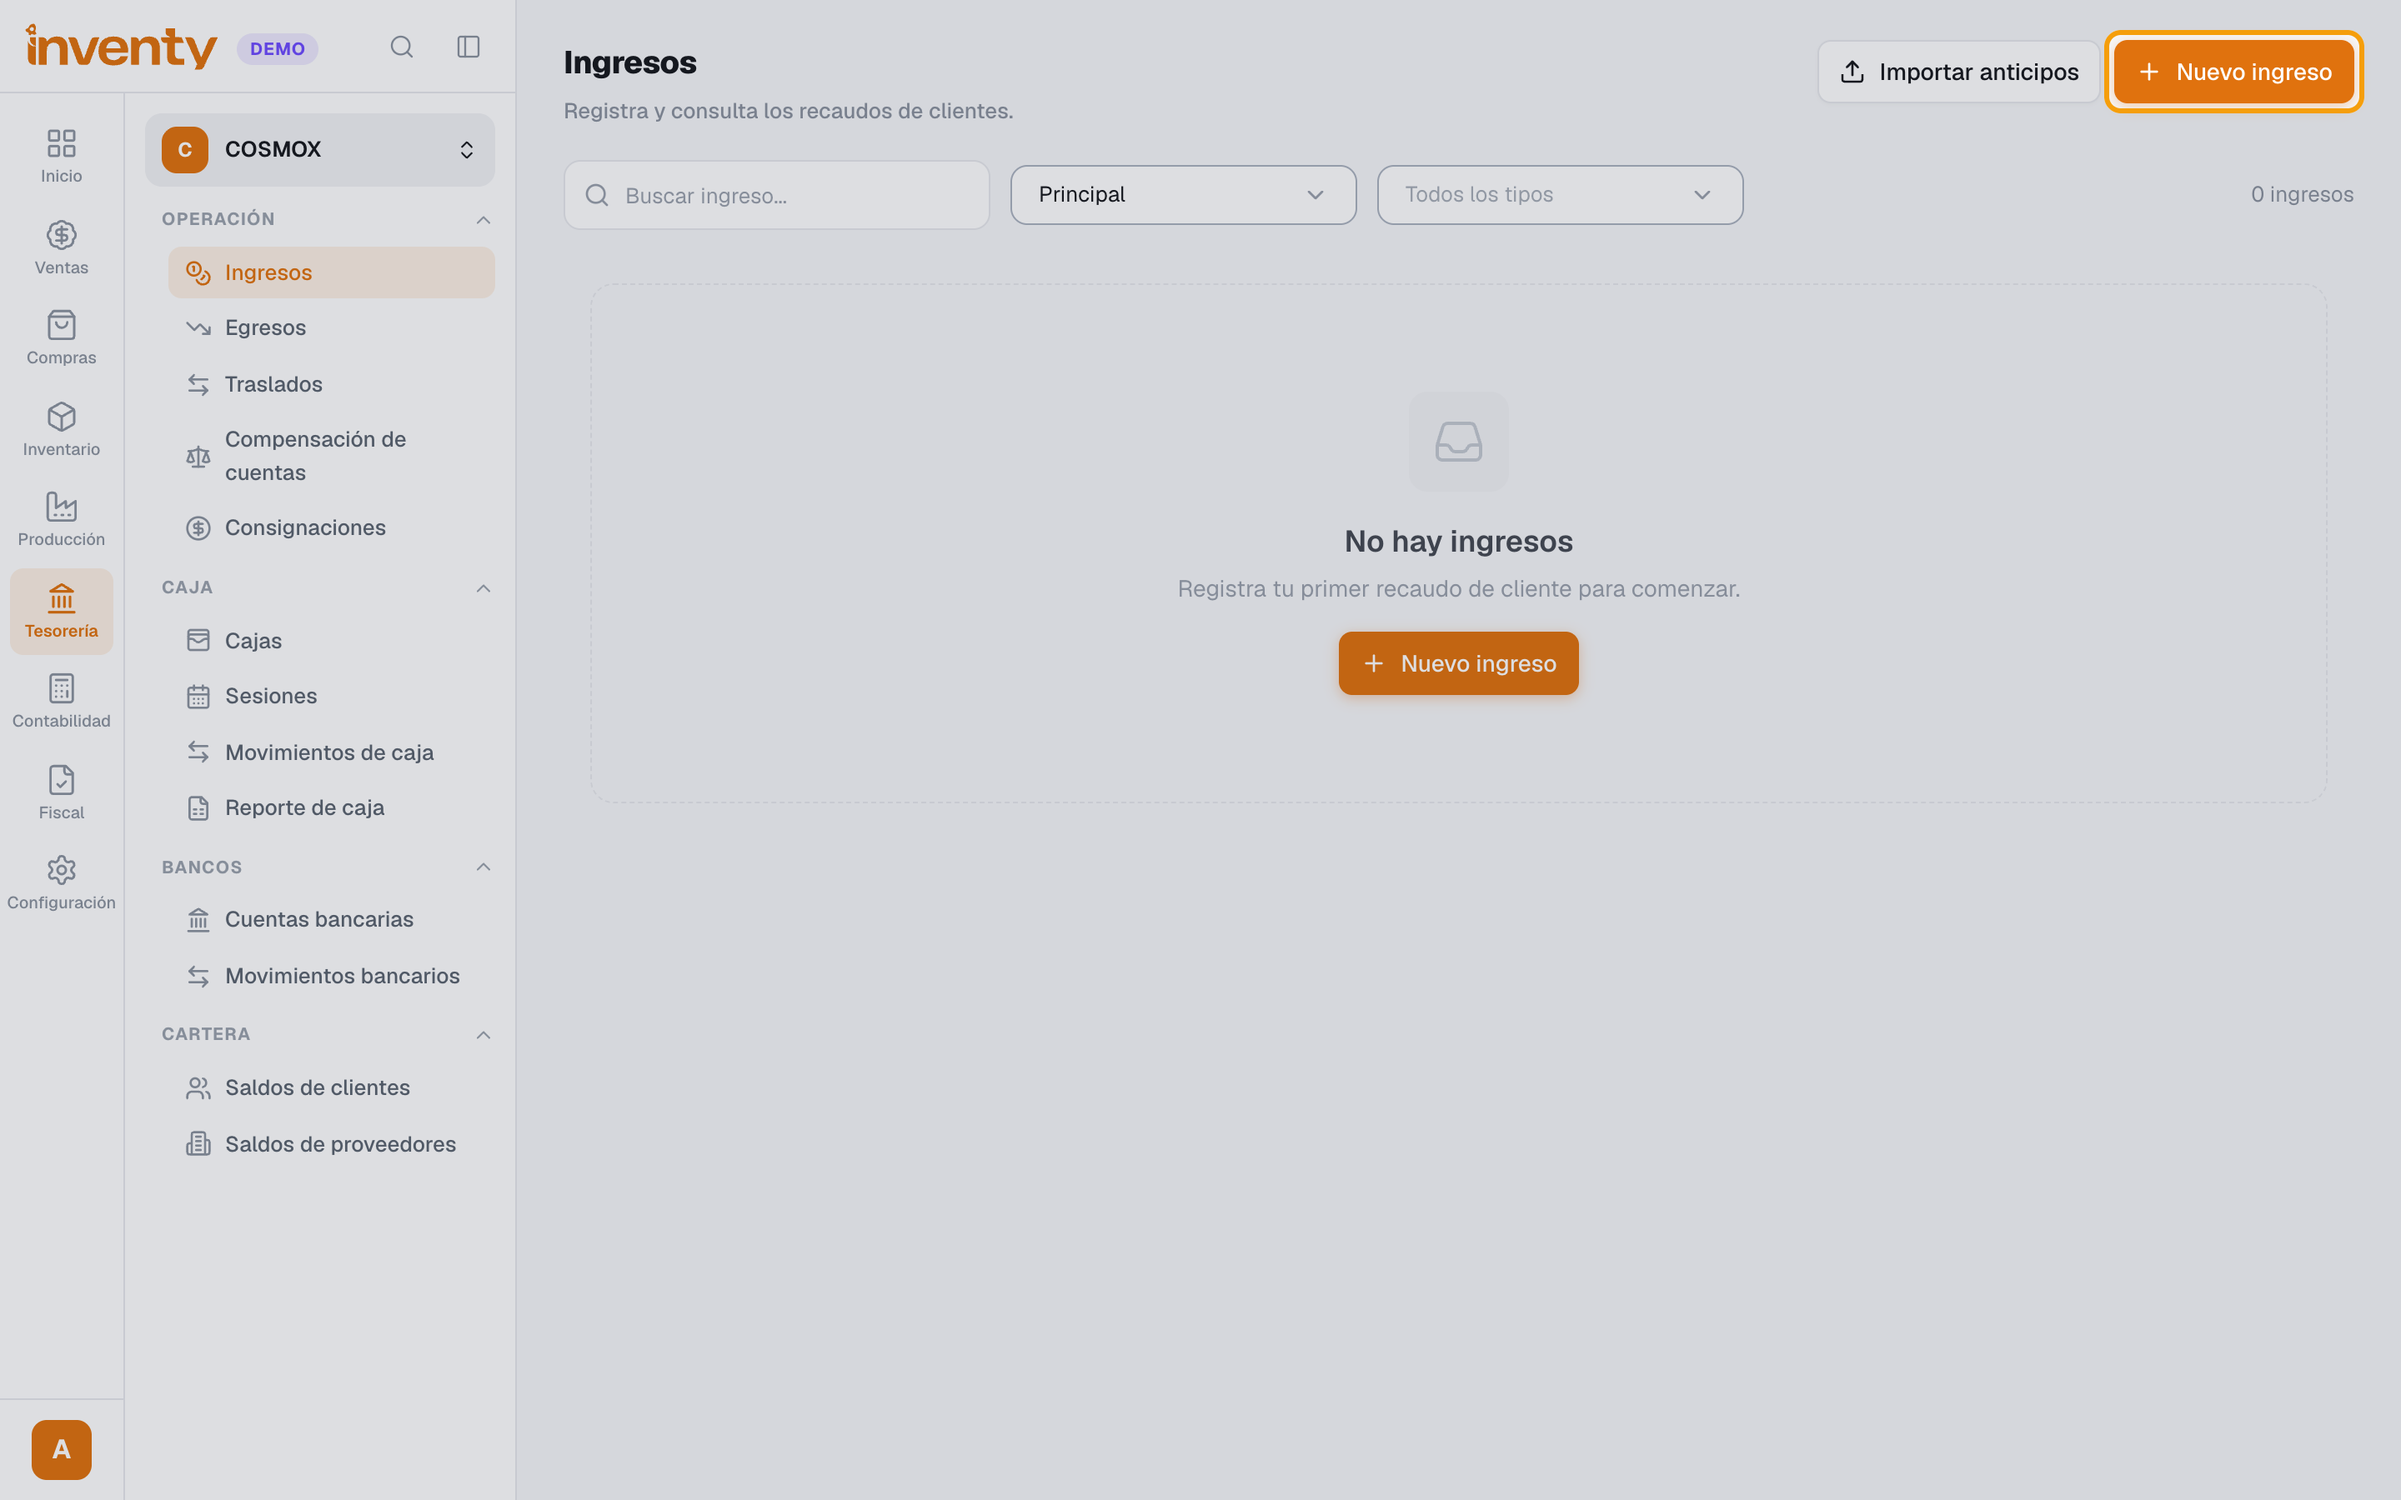
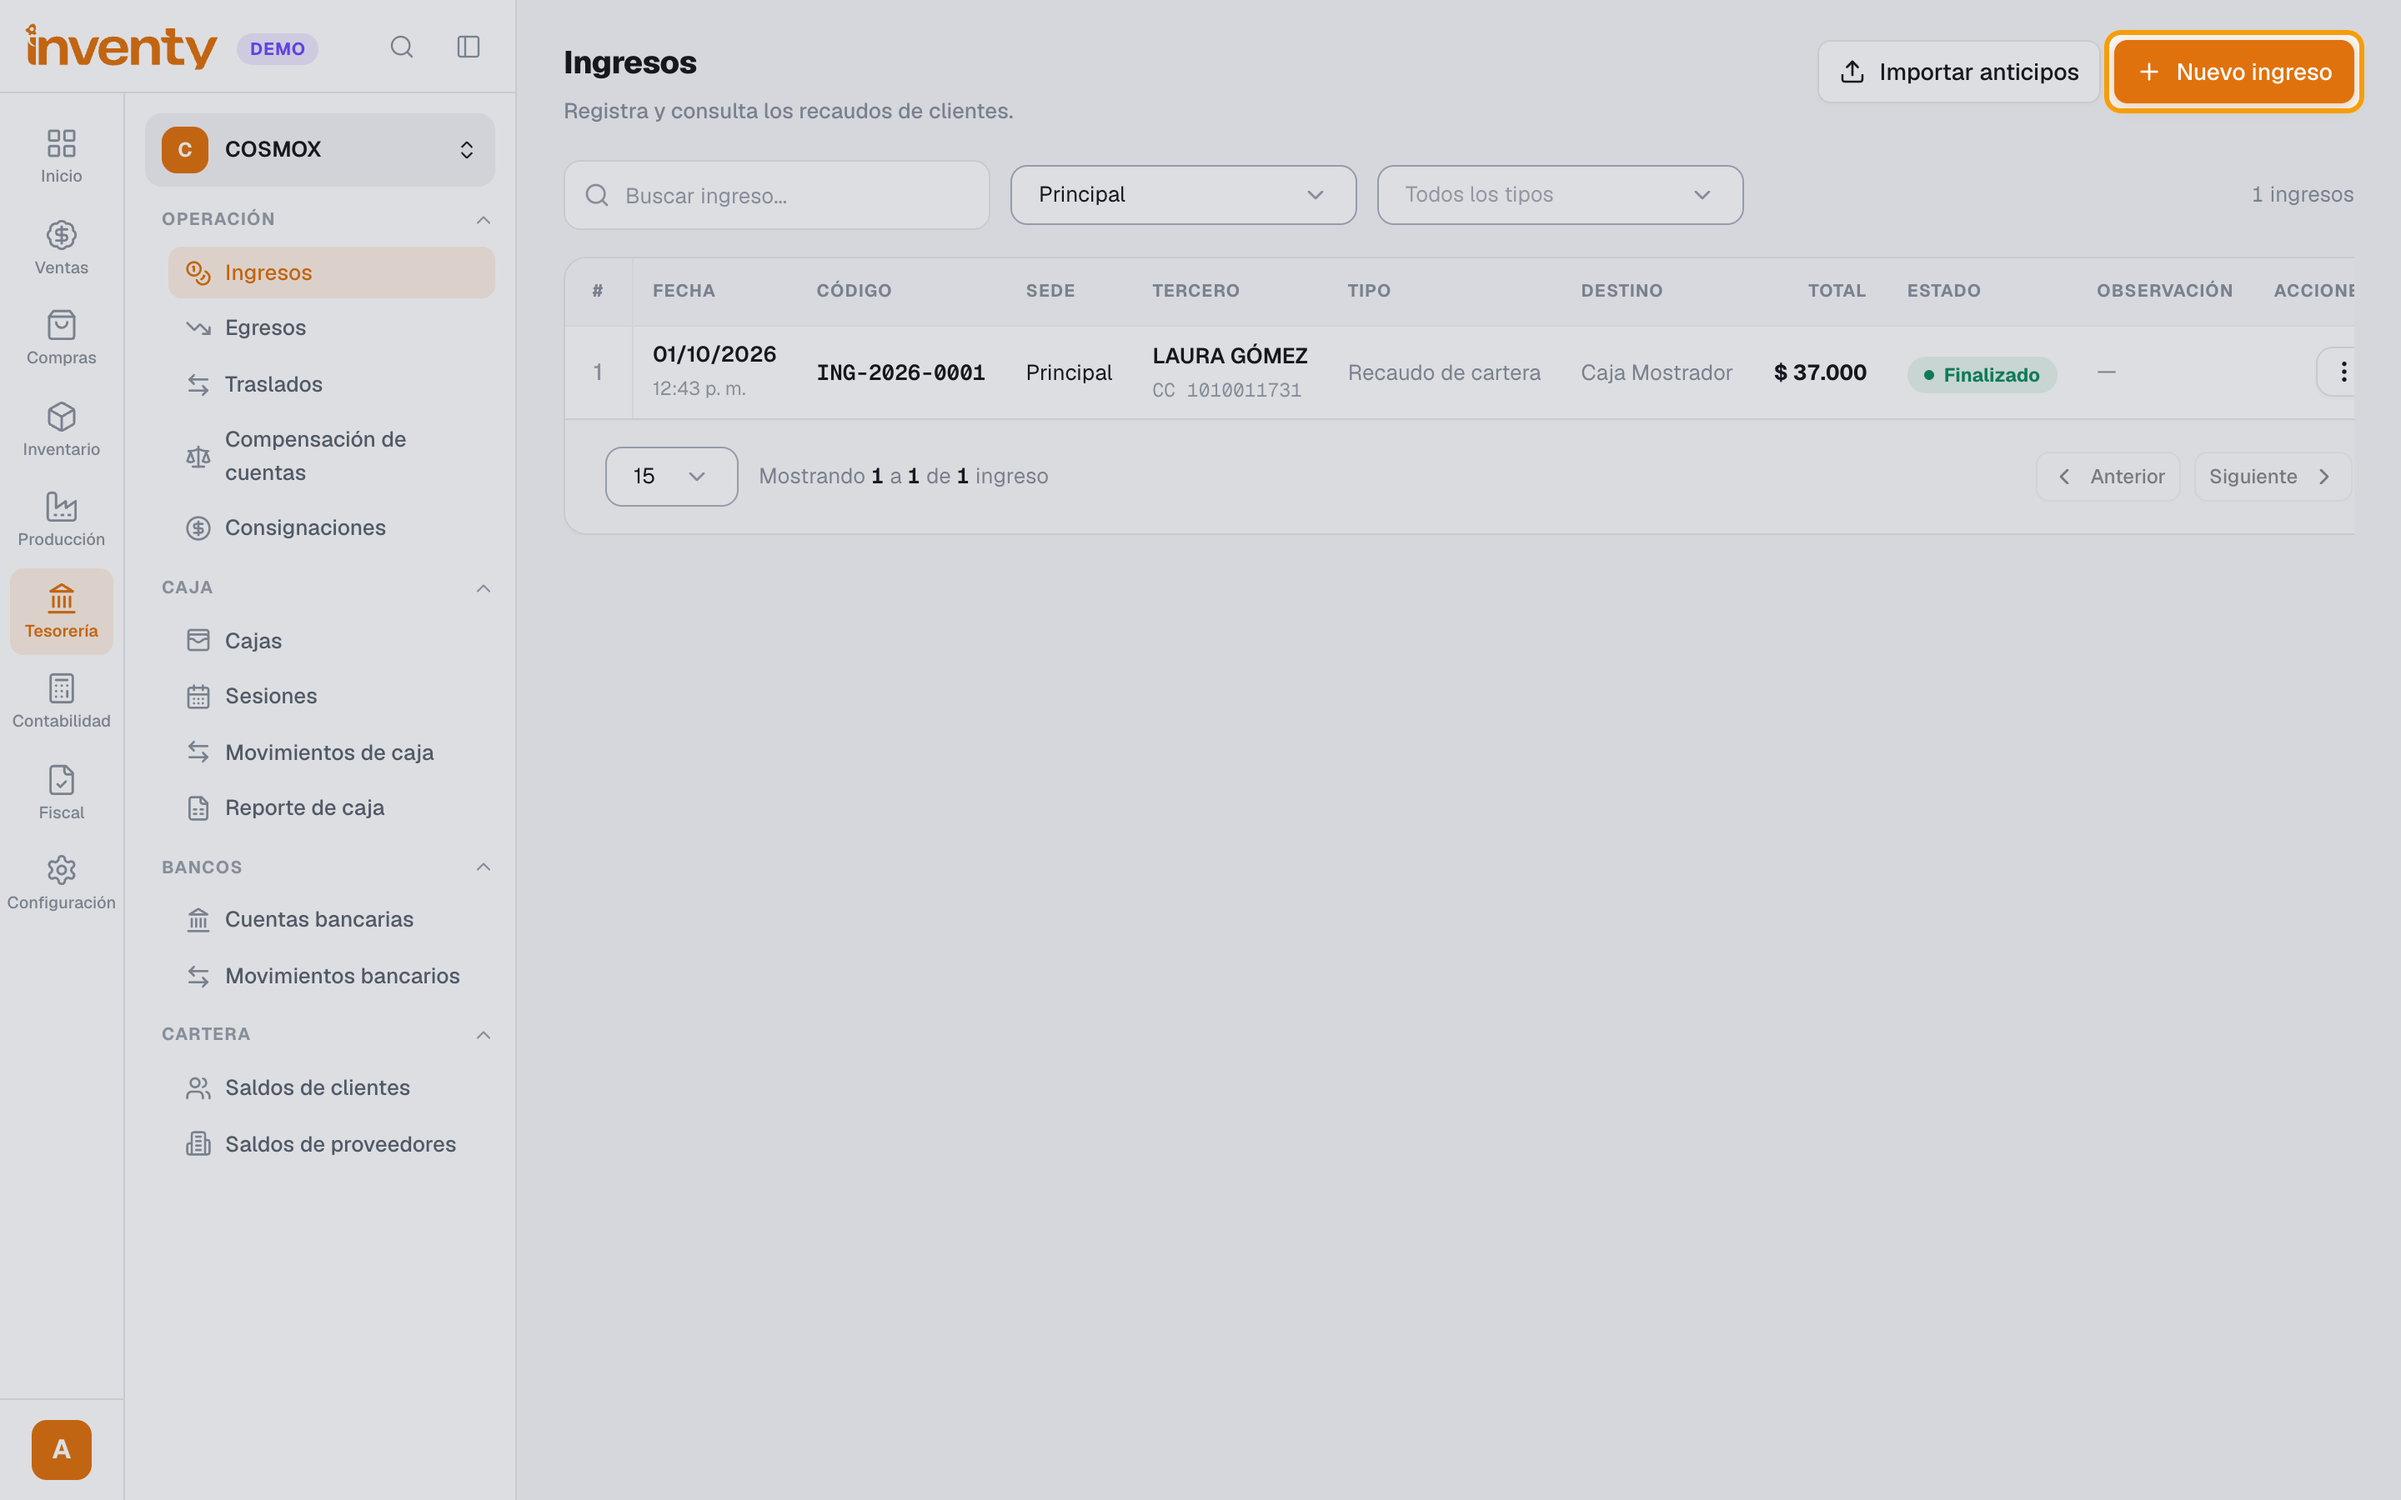
feat: anticipo real en la demo (ING-2026-0002) usado en POS y factura

diff --git a/docs/finanzas/anticipos.md b/docs/finanzas/anticipos.md
@@ -7,7 +7,7 @@ modulo: finanzas
 menu: "Tesorería › Ingresos"
 permisos:
   - Gestionar ingresos
-revisado: 2026-09-30
+revisado: 2026-10-01
 search:
   boost: 2
 tags:
@@ -29,32 +29,41 @@ tags:
 
 ![Paso 1: botón Nuevo ingreso](../assets/capturas/finanzas/anticipos/paso-1.png)
 
-**Paso 2.** Elige **Tipo de movimiento**: **Anticipo de cliente**, el **Cliente**, el **Destino**, el **Medio de pago** y el **Ingreso Total**.
+**Paso 2.** En **Tipo de movimiento** elige **Anticipo de cliente**. Elige el **Cliente**, el **Destino** (**Banco** o **Caja**), el **Medio de pago** y escribe el **Ingreso Total**.
 
 ![Paso 2: formulario de anticipo](../assets/capturas/finanzas/anticipos/paso-2.png)
 
-**Paso 3.** Haz clic en **Finalizar ingreso**. El cliente queda con **saldo a favor**.
+**Paso 3.** Haz clic en **Finalizar** y confirma con **Finalizar**. El cliente queda con **saldo a favor** (número **ING-**).
 
-![Paso 3: botón Finalizar ingreso](../assets/capturas/finanzas/anticipos/paso-3.png)
+![Paso 3: botón Finalizar](../assets/capturas/finanzas/anticipos/paso-3.png)
 
-**Paso 4.** Para usarlo en el POS: al cobrar, elige el medio **Anticipo de cliente** (solo aparece si el cliente tiene saldo). Puedes pagar el resto con otro medio.
+**Paso 4.** Para usarlo en el POS: agrega los productos, elige el cliente y haz clic en **Realizar venta**. En **Cobrar venta** elige **Anticipo de cliente** (solo aparece si el cliente tiene saldo). Verás el **Saldo anticipo**.
 
 ![Paso 4: medio Anticipo de cliente en el POS](../assets/capturas/finanzas/anticipos/paso-4.png)
 
-**Paso 5.** Para usarlo en una factura: en **Medio de Pago** elige **Anticipo de cliente**. Verás el **Saldo a favor**; aquí debe cubrir el total.
+**Paso 5.** Haz clic en **Agregar Anticipo de cliente**. En **Distribuir anticipo**, haz clic en el **Saldo disponible** (o escribe el valor en **Aplicar**) y haz clic en **Confirmar distribución**.
 
-![Paso 5: anticipo en la factura de venta](../assets/capturas/finanzas/anticipos/paso-5.png)
+![Paso 5: ventana Distribuir anticipo](../assets/capturas/finanzas/anticipos/paso-5.png)
 
-✅ **Listo:** el saldo a favor baja y la venta queda pagada con el anticipo.
+**Paso 6.** Si falta, cobra el resto con otro medio. Haz clic en **Confirmar cobro**.
+
+![Paso 6: botón Confirmar cobro](../assets/capturas/finanzas/anticipos/paso-6.png)
+
+**Paso 7.** Para usarlo en una factura de venta: elige el **Cliente**, **Forma de pago: Contado** y en **Medio de Pago** elige **Anticipo de cliente**. Verás el **Saldo a favor**; aquí el anticipo debe cubrir el total.
+
+![Paso 7: anticipo en la factura de venta](../assets/capturas/finanzas/anticipos/paso-7.png)
+
+✅ **Listo:** el saldo a favor del cliente baja en lo que usaste y la venta queda pagada.
 
 !!! info "Anticipo a proveedor"
-    <span class="ruta">Tesorería › Egresos</span> › **Nuevo egreso** › Tipo **Anticipo a proveedor** › **Finalizar egreso**. Para usarlo: nuevo egreso **Pago a proveedor** con **Fuente del pago: Anticipo** y aplícalo en **Anticipos aplicados**.
+    <span class="ruta">Tesorería › Egresos</span> › **Nuevo egreso** › Tipo **Anticipo a proveedor** › **Finalizar**. Para usarlo: nuevo egreso **Pago a proveedor** con **Fuente del pago: Anticipo** y aplícalo en **Anticipos aplicados**.
 
 ## Si algo falla
 
 | Problema | Solución |
 |---|---|
 | No aparece **Anticipo de cliente** en el POS | El cliente no tiene saldo, o no existe el medio de pago de ese tipo. |
+| *Selecciona a qué anticipos aplicar el pago.* | Haz clic en **Agregar Anticipo de cliente** y completa **Distribuir anticipo** (paso 5). |
 | *Este cliente no tiene anticipos disponibles* | Regístrale primero el anticipo (pasos 1 a 3). |
 | *La suma de los anticipos aplicados debe ser igual al valor total* | Ajusta los valores hasta cuadrar con el total. |
 | En la factura no me deja pagar solo una parte | En **Facturas** el anticipo cubre el total. Para pago parcial usa el POS. |

diff --git a/gestion/capturas-reporte.md b/gestion/capturas-reporte.md
@@ -1,5 +1,5 @@
 # Reporte de capturas
 
-> Generado por `npm run capturas` el 1/10/2026, 4:35:45 p. m.. Ambiente: https://erp.cosmox.tech
+> Generado por `npm run capturas` el 1/10/2026, 4:39:30 p. m.. Ambiente: https://erp.cosmox.tech
 
-**5** capturas tomadas · **0** fallas · **57** imágenes siguen pendientes.
+**1** capturas tomadas · **0** fallas · **54** imágenes siguen pendientes.
